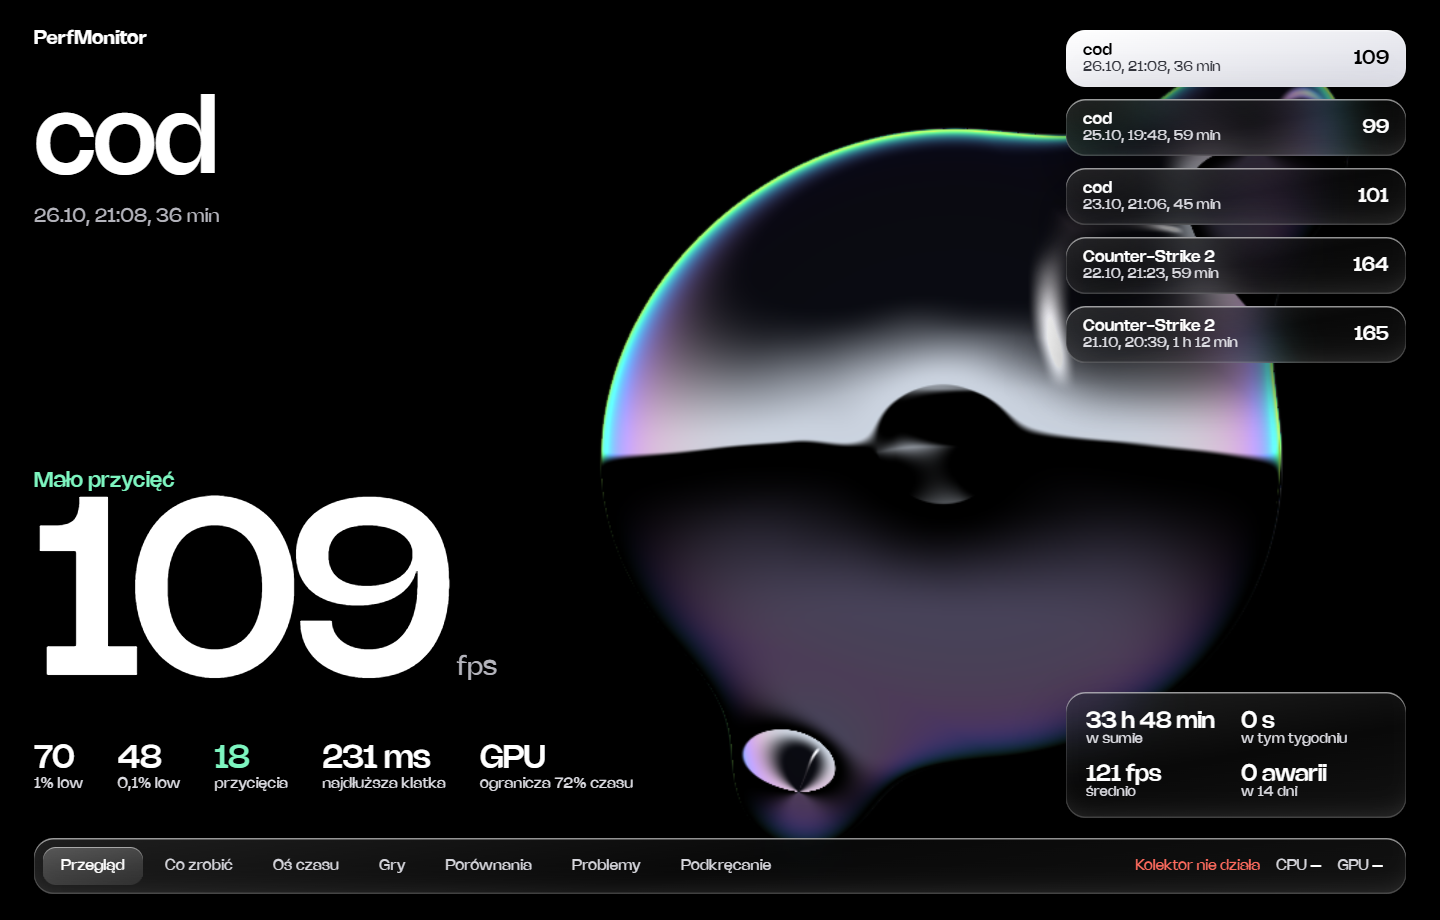
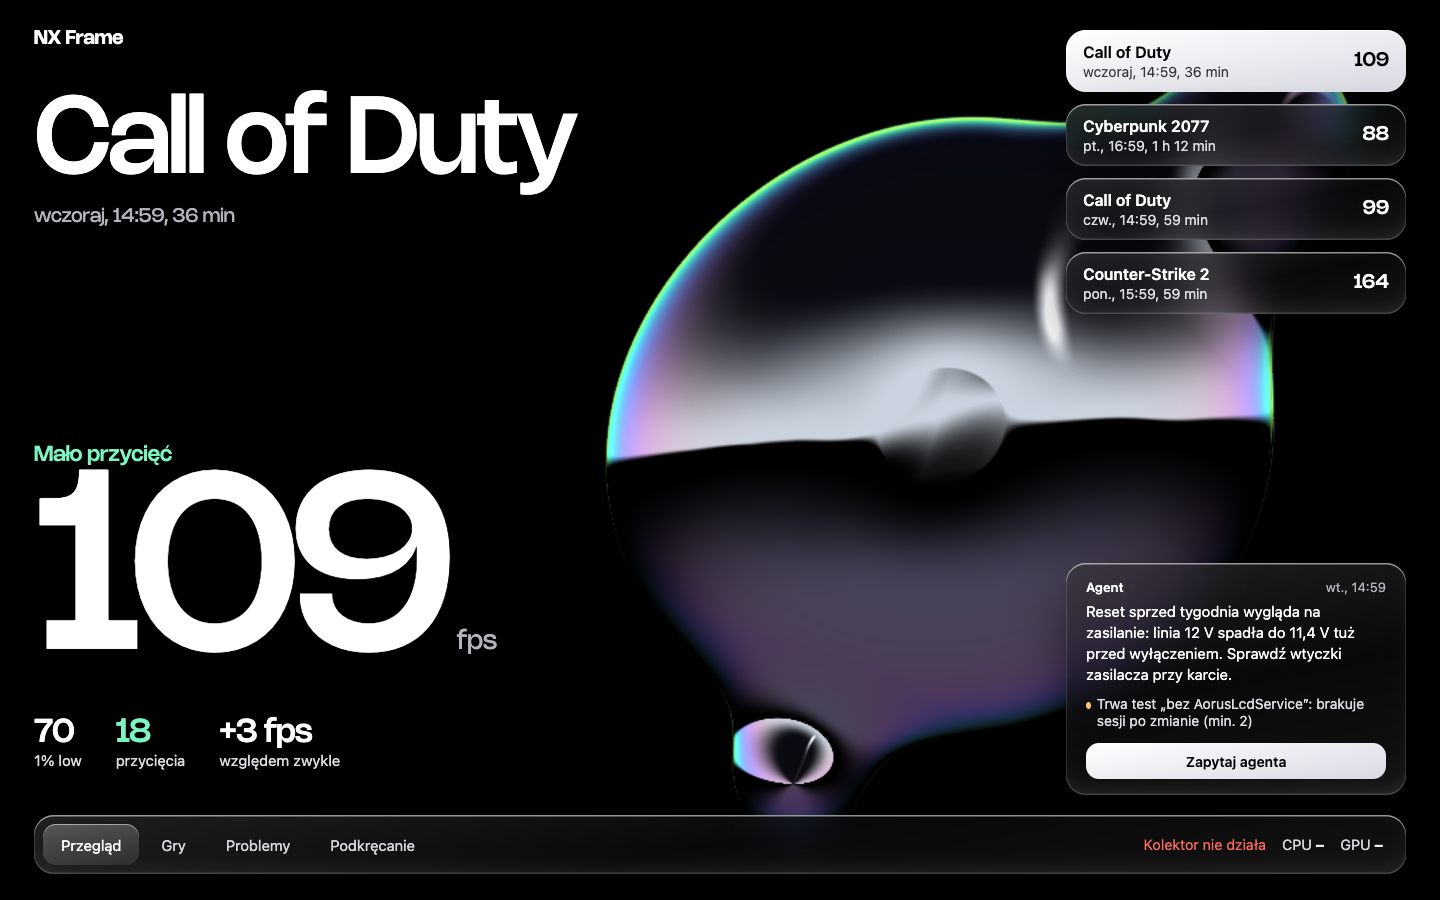
docs: describe the simpler window and pm note

diff --git a/README.md b/README.md
@@ -4,14 +4,14 @@ A Windows 11 black box for gamers: it records how your PC performs while you pla
 
 The interface is in Polish.
 
-![Overview: the last game session at a glance](docs/screenshots/overview.png)
+![Overview: the last game session at a glance, with the agent's conclusion](docs/screenshots/overview.png)
 
 <p>
-  <img src="docs/screenshots/session.png" width="49%" alt="Session: FPS, 1% lows and findings for one game session">
-  <img src="docs/screenshots/compare.png" width="49%" alt="Compare: FPS per week with driver and game-update markers">
+  <img src="docs/screenshots/games.png" width="49%" alt="Games: one tile per game with its Steam banner, FPS and state">
+  <img src="docs/screenshots/game.png" width="49%" alt="One game: FPS against your target, settings, versions and recent sessions">
 </p>
 <p>
-  <img src="docs/screenshots/problems.png" width="49%" alt="Problems: hard resets, freezes and driver faults">
+  <img src="docs/screenshots/problems.png" width="49%" alt="Problems: hard resets, driver faults, crashes and freezes in plain words">
 </p>
 
 The screenshots show synthetic demo data.
@@ -27,9 +27,11 @@ The screenshots show synthetic demo data.
 - **Advice.** A short ranked list of concrete changes, each backed by your own numbers. An item disappears once the condition is gone. Settings NX Frame cannot read are listed as manual checks. `pm test` verifies a single change with a before/after verdict.
 - **Network quality.** Ping, packet loss, DNS time and Wi-Fi link quality, with each incident placed at home, ISP or internet.
 - **Undervolt and overclock.** UV/OC profiles, stress tests and idle soaks, WHEA error attribution, per-core stability, and a single suggested next step. NX Frame only reads: it never changes a BIOS, Adrenalin or registry setting.
-- **CLI.** `pm` exposes the same data: `pm status`, `pm advise`, `pm sessions`, `pm session <id>`, `pm compare`, `pm health`, `pm incidents`, `pm net`, `pm oc`, `pm sql` and more (`pm --help`).
+- **CLI.** `pm` exposes the same data: `pm status`, `pm advise`, `pm sessions`, `pm session <id>`, `pm compare`, `pm health`, `pm incidents`, `pm net`, `pm oc`, `pm note`, `pm sql` and more (`pm --help`).
 
-The window has seven pages: Przegląd (overview), Co zrobić (advice), Oś czasu (timeline), Gry (games), Porównania (compare), Problemy (problems) and Podkręcanie (overclocking). The "Zapytaj agenta" buttons copy a ready-made prompt for any AI agent that can run terminal commands (Claude Code, Codex, Cursor and similar). The prompt points the agent at the guide bundled with the app ([`perfmon/agent/AGENT.md`](perfmon/agent/AGENT.md)) and at the `pm` CLI by full path, so there is nothing to set up: paste it and the agent analyses your own data.
+NX Frame collects; an AI agent analyses. The window stays small on purpose and has four pages: Przegląd (the last session), Gry (a tile per game with its Steam banner; a game's page shows its FPS against your target, its settings, versions and recent sessions), Problemy (what went wrong lately, in plain words) and Podkręcanie (the active UV/OC profile and the next step). There are no charts: the detail lives in the database for the agent.
+
+The "Zapytaj agenta" buttons copy a ready-made prompt for any AI agent that can run terminal commands (Claude Code, Codex, Cursor and similar). The prompt points the agent at the guide bundled with the app ([`perfmon/agent/AGENT.md`](perfmon/agent/AGENT.md)) and at the `pm` CLI by full path, so there is nothing to set up: paste it and the agent analyses your own data. When it is done it writes its conclusion back with `pm note`, and the window shows it on the home screen and on the game's page, together with any test it started (`pm test`).
 
 ## Requirements
 
@@ -56,6 +58,7 @@ The app checks GitHub Releases. When a newer version exists, an **Aktualizuj do 
 Everything stays on your machine, in a SQLite database under `%LOCALAPPDATA%\NX Frame`. There is no account, telemetry or upload. The UI server listens on `127.0.0.1` only. The only network traffic:
 
 - **Update check:** a request to `api.github.com` every few hours, and the installer download from GitHub when you click update.
+- **Game banners:** the tiles use the banner the Steam client already keeps on your PC. Only when it is missing does NX Frame fetch it once from Steam's public CDN, by the game's Steam app id (`"steam_banners": false` in `config.json` turns that off).
 - **Network monitor:** ICMP pings to your router, the first hop beyond it, `1.1.1.1` and `8.8.8.8` (change them with `net_targets` in `config.json`), and to the game server's address while a game is running. It also resolves a random, non-existent name through your system DNS resolver to time it.
 
 NX Frame records process names, Windows event log entries and hardware readings. It does not read game memory, with one opt-in exception: `game_modules` (off by default) lists the DLLs loaded in the game process, which some kernel anti-cheats may log.

diff --git a/perfmon/agent/AGENT.md b/perfmon/agent/AGENT.md
@@ -5,10 +5,12 @@ The CLI path is given in the user's prompt. Wherever this guide says `pm <comman
 
 Rules: answer in the user's language (the app UI is Polish, so default to Polish); code and commands stay as-is. Base every claim on data: cite exact timestamps and numbers. NEVER change system settings (BIOS, drivers, registry, services, uninstalls) without asking first - propose, then wait.
 
+The window is deliberately small: last session, game tiles, a plain problems list. The analysis is your job, and the user reads your conclusion there. After every analysis save it with `pm note add "..." [--exe game.exe]`: one or two plain sentences in the user's language (max 400 characters) saying what is wrong and what to do, no raw metrics. Use `--exe` when it is about one game (it shows on that game's page), no `--exe` when it is about the whole PC (it shows under Problemy and Podkręcanie); the newest note also shows on the home screen. A new note replaces the previous one on screen, so write the current state, not a diff. When you ask the user to change one setting and keep playing, start `pm test start NAME`: the window then shows "Trwa test" and its progress by itself.
+
 ## Data
 - The collector writes 1 s samples, game sessions (PresentMon frames/stutters), network quality, top processes, Windows event log, detected incidents and config snapshots to a SQLite database (UTC epoch seconds; the CLI prints local time). The CLI finds the database itself; `pm status` shows its location. Installed builds keep data in `%LOCALAPPDATA%\NX Frame`.
 - Add `--json` for JSON. Time args: `2026-01-15 23:30`, `23:30` (today), `2h` / `30m` / `7d` (that long ago - write WITHOUT a leading minus), `now`.
-- The user can browse the same data in the NX Frame window: charts, sessions, incidents, "Co zrobić" (advice).
+- The NX Frame window shows only a summary (no charts, no per-session detail): numbers and causes come from you.
 - `game_proc` (every ~5 s per game session): rss_mb, private_mb, thread_max_pct (busiest game thread, % of one core), threads, handles, io_read_mbs, gpu_pct, gpu_3d_pct, vram_dedicated_mb, vram_shared_mb, shader_bytes (shader cache size, where readable).
 - `proc_events`: ts, pid, name, ppid, parent_name, action start|stop, session, path.
 - `events.data`: raw event fields as JSON (crash 1000/1001/1002, Kernel-Power 41, disk/stornvme/Ntfs, WHEA, Defender).
@@ -37,6 +39,7 @@ Rules: answer in the user's language (the app UI is Polish, so default to Polish
 - `pm compare [--exe cod.exe] [--by week|day|month|driver|game_version|session|present_mode] [--since 90d]` - FPS, 1% low, stutters/min, bound shares per group with delta % vs the previous group. `present_mode` groups by IFlip / FSE / Composed / mixed.
 - `pm compare --exe X --before <time|m<n>> [--after <time|m<n>>]` - before/after groups around a change marker (`m<n>` = number from `pm markers --exe X`); warns `small_sample` (< 30 min or < 3 sessions in a group).
 - `pm markers [--exe X] [--since T]` - timeline of driver / game update / OS / BIOS / config changes, markers numbered `n`.
+- `pm note add TEXT [--exe X]`, `pm note list`, `pm note clear [ID]` - your conclusion shown in the window (see the top of this guide).
 - `pm test start NAME [--exe X] [--key K]`, `pm test stop|cancel|list|show [ID]` - one changed setting, before/after verdict (pomogło, pogorszyło, mieszane, bez zmian, za mało danych). Needs >= 30 gameplay minutes and >= 2 sessions per side. Only one open test.
 - `pm freeze-check` - LIVE diagnosis, run while the desktop is frozen (takes up to ~25 s): times DwmFlush (does DWM still compose frames?), pings explorer, foreground window hung?, GPU 3D load per adapter, display modes + which GPU drives each monitor, top CPU processes, dwm.exe/explorer.exe start times (restarts), collector's latest sample, incidents/events of the last 10 min, and a verdict.
 - `pm sensors dump` - every hardware sensor right now (read by the elevated collector).
